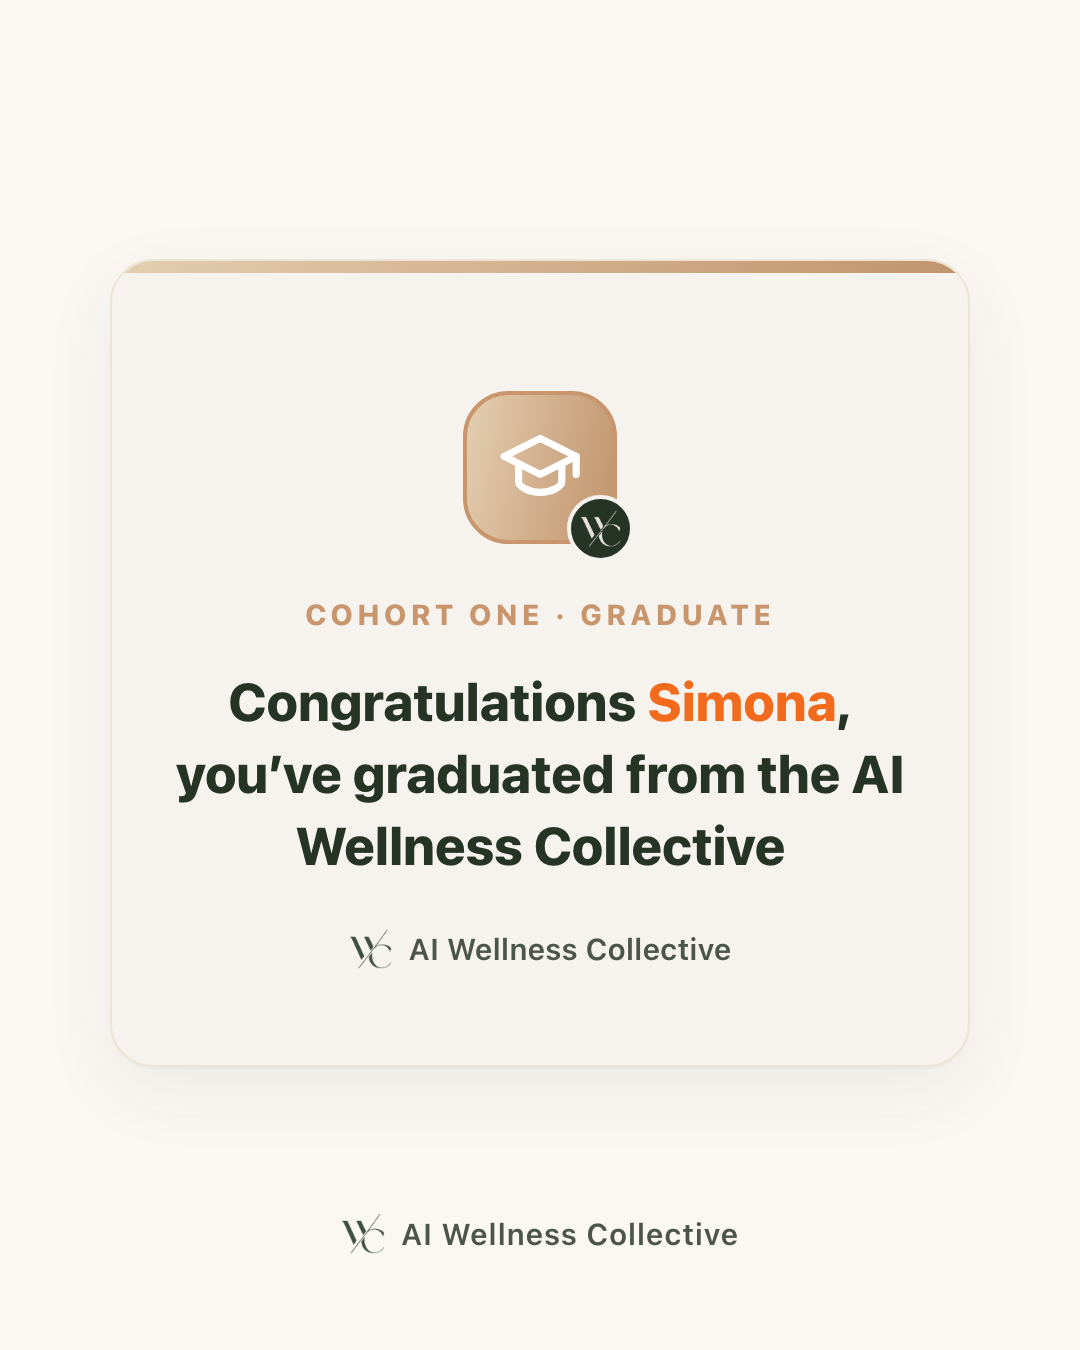
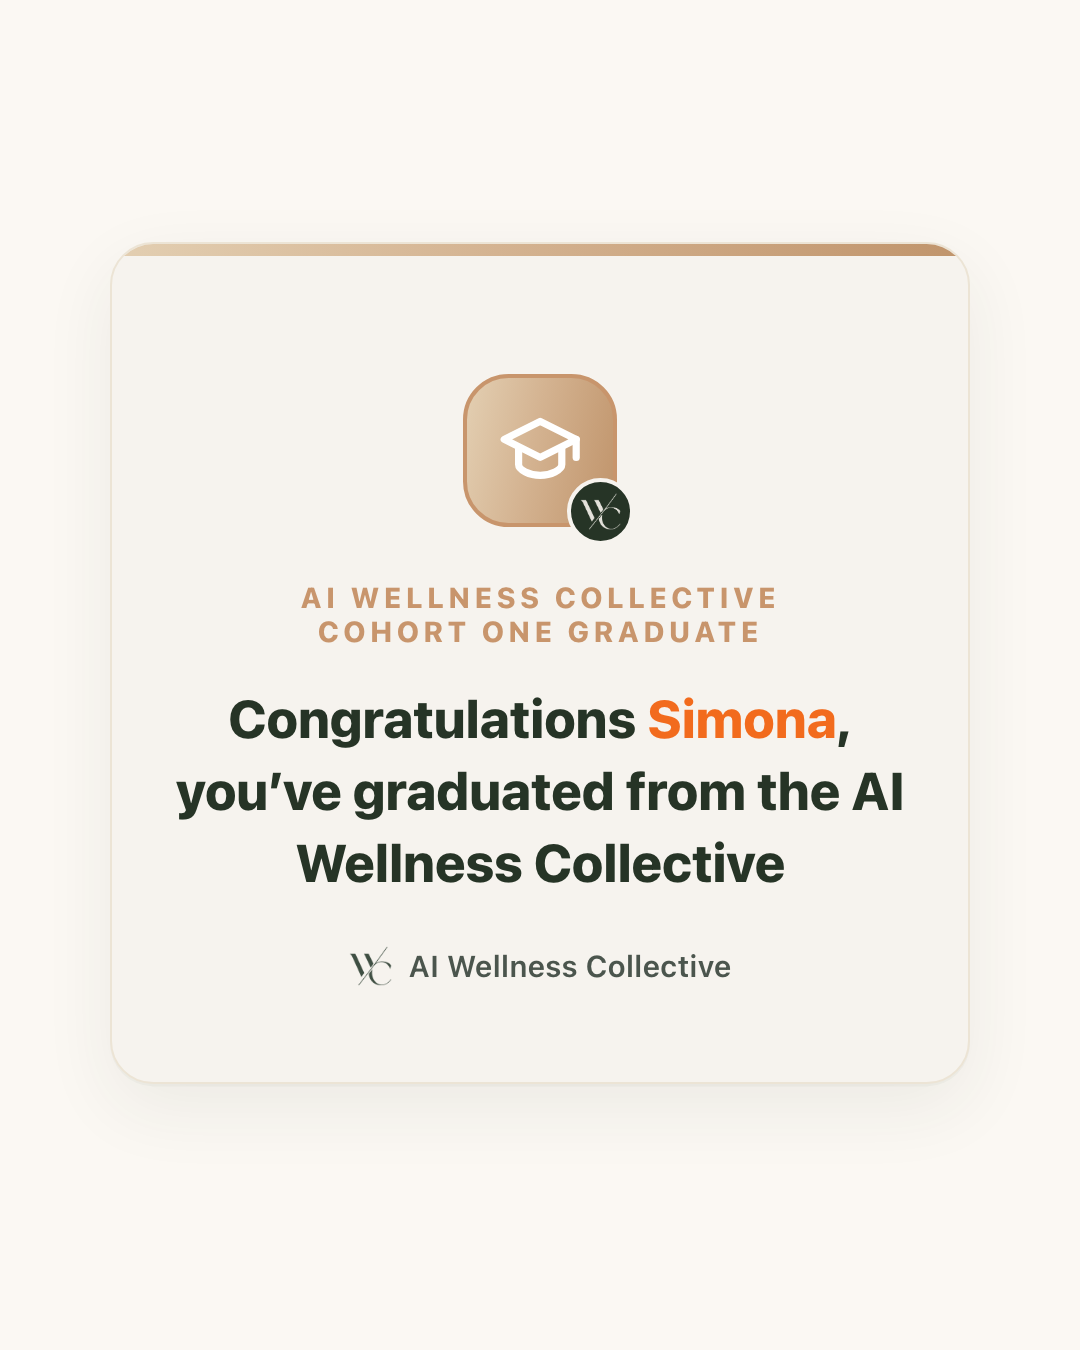
AIW-327 v5: eyebrow AI WELLNESS COLLECTIVE / COHORT ONE GRADUATE; bottom duplicate mark removed from share images

diff --git a/index.html b/index.html
@@ -200,8 +200,8 @@ body.sharemode{padding:0;background:#FBF8F3;overflow:hidden}
 
 <div class="sec">2 · For social media (no confetti)<small>The same card on the cream background with plenty of space around it, and a small AI Wellness Collective mark at the bottom. These are real images at full size. Tap one to download it.</small></div>
 <div class="shares">
-  <div class="col"><div class="cap">Story · 1080 × 1920 (9:16)</div><a href="share-story-simona.png" download><img class="shv" src="share-story-simona.png?v=v4" width="270" height="480" alt="Graduation card, Story size"></a><a class="dl" href="share-story-simona.png" download><svg viewBox="0 0 24 24" fill="none" stroke="currentColor" stroke-width="2" stroke-linecap="round" stroke-linejoin="round"><path d="M12 3v12"/><path d="M7 10l5 5 5-5"/><path d="M4 21h16"/></svg>Download Story PNG</a></div>
-  <div class="col"><div class="cap">Post · 1080 × 1350 (4:5)</div><a href="share-post-simona.png" download><img class="shv" src="share-post-simona.png?v=v4" width="384" height="480" alt="Graduation card, post size"></a><a class="dl" href="share-post-simona.png" download><svg viewBox="0 0 24 24" fill="none" stroke="currentColor" stroke-width="2" stroke-linecap="round" stroke-linejoin="round"><path d="M12 3v12"/><path d="M7 10l5 5 5-5"/><path d="M4 21h16"/></svg>Download post PNG</a></div>
+  <div class="col"><div class="cap">Story · 1080 × 1920 (9:16)</div><a href="share-story-simona.png" download><img class="shv" src="share-story-simona.png?v=v5" width="270" height="480" alt="Graduation card, Story size"></a><a class="dl" href="share-story-simona.png" download><svg viewBox="0 0 24 24" fill="none" stroke="currentColor" stroke-width="2" stroke-linecap="round" stroke-linejoin="round"><path d="M12 3v12"/><path d="M7 10l5 5 5-5"/><path d="M4 21h16"/></svg>Download Story PNG</a></div>
+  <div class="col"><div class="cap">Post · 1080 × 1350 (4:5)</div><a href="share-post-simona.png" download><img class="shv" src="share-post-simona.png?v=v5" width="384" height="480" alt="Graduation card, post size"></a><a class="dl" href="share-post-simona.png" download><svg viewBox="0 0 24 24" fill="none" stroke="currentColor" stroke-width="2" stroke-linecap="round" stroke-linejoin="round"><path d="M12 3v12"/><path d="M7 10l5 5 5-5"/><path d="M4 21h16"/></svg>Download post PNG</a></div>
 </div>
 
 <div class="sec">3 · On the coach's view of a team member<small>The real team-member page (Team, then tap the person). When all six weeks are done, a preview of the card and a <b>Save &amp; share graduation card</b> button sit under "Cohort · Completed". The button uses the forest outline style, to match the white cards on this page. Tapping it opens the phone's normal share sheet.</small></div>
@@ -264,7 +264,7 @@ function week(n,w){return '<div class="wk"><div class="hero">'+conf(11)+'<div cl
 function grad(n,o={}){
  return '<div class="wk g'+(o.share?' share':'')+(o.hl?' hl':'')+'"><div class="gstrip"></div><div class="hero">'+(o.share?'':conf(23,null,280))+
   '<div class="hi">'+CAP(36)+'<span class="badge"><img src="'+MONO_LIGHT+'" alt="WC"></span></div>'+
-  '<div class="k">COHORT ONE · GRADUATE</div>'+
+  '<div class="k">AI WELLNESS COLLECTIVE<br>COHORT ONE GRADUATE</div>'+
   '<div class="t">Congratulations <b>'+n+'</b>, you’ve graduated from the AI Wellness Collective</div>'+
   '<div class="from"><img src="'+MONO_DARK+'" alt="">AI Wellness Collective</div>'+
   '</div>'+(o.share?'':foot(o.l??21,o.c??6))+'</div>'}
@@ -320,8 +320,7 @@ const Q=new URLSearchParams(location.search), SH=Q.get('share');
 if(SH==='story'||SH==='post'){
  const n=Q.get('n')||'Simona', H=SH==='story'?1920:1350;
  document.body.className='sharemode';document.getElementById('page').remove();
- document.getElementById('share').innerHTML='<div class="canvas" style="height:'+H+'px"><div class="cardwrap"'+(SH==='story'?' style="margin-top:-60px"':'')+'>'+grad(n,{share:true})+'</div>'+
-  '<div class="wm" style="bottom:'+(SH==='story'?300:96)+'px"><img src="'+MONO_DARK+'" alt="">AI Wellness Collective</div></div>';
+ document.getElementById('share').innerHTML='<div class="canvas" style="height:'+H+'px"><div class="cardwrap"'+(SH==='story'?' style="margin-top:-60px"':'')+'>'+grad(n,{share:true})+'</div>'+'</div>'; /* v5: bottom 'AI Wellness Collective' mark removed (it repeated the card) */
 }else{render()}
 </script>
 </body></html>
